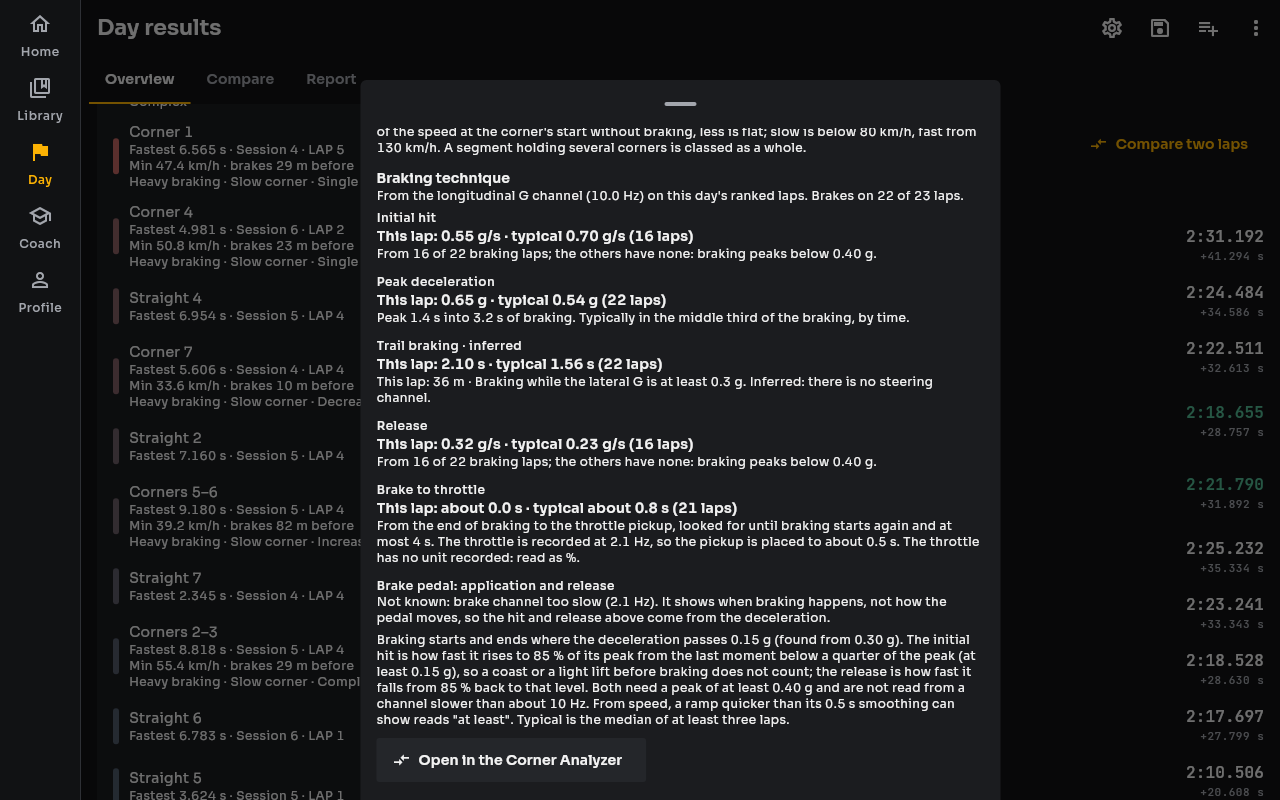
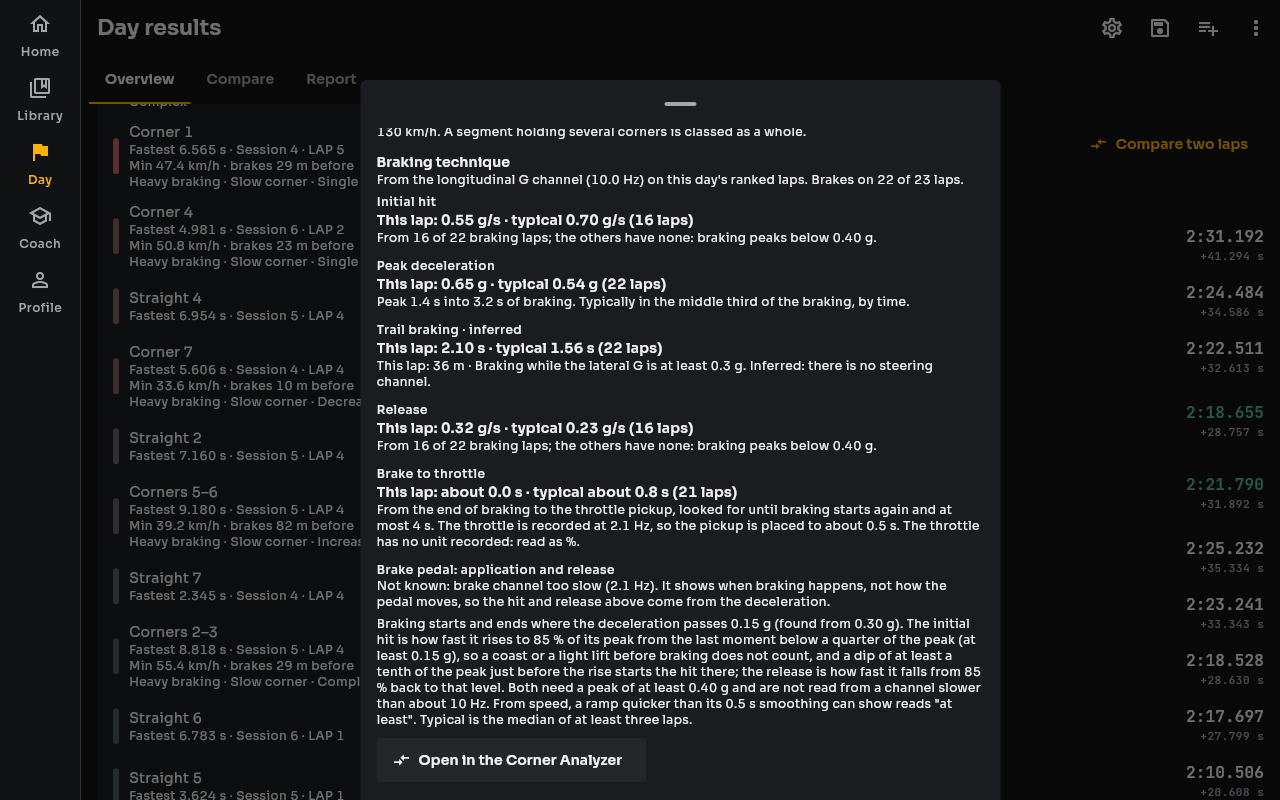
FET-219: braking technique round 3 (assumed speed unit for metres, per-figure rates)
- Metres come from the speed whatever the deceleration source: the lap records
  speedUnitAssumed and the assumed unit (km/h or mph) whenever the file declares
  no speed unit, and the trail line says so (EN, PL). Guide sentence added.
- The partial-typical line names each figure's own channel rate (lateral for
  trail, throttle, brake) instead of the G rate; trail metres and the pedal
  figures get the line too.
- The note under the section mentions the dip rule for the hit.

Claude-Session: https://claude.ai/code/session_014pCmgHGRka3SUZbzm8LTeW

Changed region(s): [[0.2812, 0.1562, 0.7812, 0.9062]]

diff --git a/lib/day/corner_details.dart b/lib/day/corner_details.dart
@@ -852,7 +852,7 @@ class BrakingTechniqueSection extends StatelessWidget {
 
     // A typical resting on under three quarters of the braking laps says
     // how many, and why the others have none.
-    String subset(BrakingTechniqueTypical typical) {
+    String subset(BrakingTechniqueTypical typical, double? rate) {
       if (!typical.partial) return '';
       final dropped = typical.droppedReason;
       return switch (dropped) {
@@ -861,7 +861,7 @@ class BrakingTechniqueSection extends StatelessWidget {
         _ => l10n.brakingTechniqueSubsetOther(
           typical.laps,
           typical.brakingLaps,
-          reason(dropped, rate: technique.rateHz),
+          reason(dropped, rate: rate),
         ),
       };
     }
@@ -977,7 +977,7 @@ class BrakingTechniqueSection extends StatelessWidget {
             gPerSecond,
             atLeast: (lap) => lap.hitAtLeast,
           ),
-          subset(technique.hit),
+          subset(technique.hit, technique.rateHz),
         ),
         item(
           'brakingTechniquePeak',
@@ -988,7 +988,7 @@ class BrakingTechniqueSection extends StatelessWidget {
             technique.peak,
             g,
           ),
-          notes([peakNotes, subset(technique.peak)]),
+          notes([peakNotes, subset(technique.peak, technique.rateHz)]),
         ),
         item(
           'brakingTechniqueTrail',
@@ -1008,7 +1008,14 @@ class BrakingTechniqueSection extends StatelessWidget {
               if (technique.lateralUnitAssumed)
                 l10n.brakingTechniqueLateralAssumed,
             ].join(' · '),
-            subset(technique.trailSeconds),
+            if (technique.speedUnitAssumed)
+              l10n.brakingTechniqueSpeedAssumed(technique.speedAssumedUnit),
+            subset(technique.trailSeconds, technique.lateralRateHz),
+            if (subset(technique.trailMeters, technique.lateralRateHz)
+                case final line
+                when line !=
+                    subset(technique.trailSeconds, technique.lateralRateHz))
+              line,
           ]),
         ),
         item(
@@ -1021,7 +1028,7 @@ class BrakingTechniqueSection extends StatelessWidget {
             gPerSecond,
             atLeast: (lap) => lap.releaseAtLeast,
           ),
-          subset(technique.release),
+          subset(technique.release, technique.rateHz),
         ),
         if (hasThrottle)
           item(
@@ -1048,7 +1055,7 @@ class BrakingTechniqueSection extends StatelessWidget {
                 l10n.brakingTechniqueThrottleAssumed,
               if (technique.throttleScaleInferred)
                 l10n.brakingTechniqueThrottleScaleInferred,
-              subset(technique.brakeToThrottle),
+              subset(technique.brakeToThrottle, throttleRate),
             ].join(' '),
           ),
         if (hasBrake)
@@ -1094,7 +1101,9 @@ class BrakingTechniqueSection extends StatelessWidget {
                       l10n.brakingTechniqueBrakeAssumed,
                     if (technique.brakeScaleInferred)
                       l10n.brakingTechniqueBrakeScaleInferred,
-                  ].join(' '),
+                    subset(technique.pedalApplication, brakeRate),
+                    subset(technique.pedalRelease, brakeRate),
+                  ].where((note) => note.isNotEmpty).toSet().join(' '),
                 ),
         Text(
           l10n.brakingTechniqueNote,

diff --git a/docs/user-guide/pages/corners.html b/docs/user-guide/pages/corners.html
@@ -88,7 +88,7 @@
 <ul>
   <li>The deceleration comes from the longitudinal G channel when the recording has one with data, otherwise from the change of the speed, smoothed over a 0.5 s window (the line under the title says which, and the channel's rate). RaceChrono's <em>longacc-calc</em> and <em>latacc-calc</em> are calculated by RaceChrono, most likely from the GPS speed and heading, and are smoothed, so the hit and release can read slower than the car really braked. Laps measured from G and from speed, or in different units, are never mixed.</li>
   <li>Figures from speed and from a G channel are not comparable. From speed, a hit or release quicker than the 0.5 s smoothing can show reads <em>at least</em>, for example <em>at least 0.74 g/s</em>: the real one may be quicker.</li>
-  <li>Units are read as the recording declares them, also from a VBO's header. A channel without a unit is read as g (G channels), km/h (speed) or % (pedals), and the section says so, for example <em>no unit recorded: read as km/h</em> (or as mph when the speed setting for recordings without a unit says so; a unit the file declares is never overridden by that setting); a pedal recorded from 0 to 1 is read as 0 to 100 % and says so too.</li>
+  <li>Units are read as the recording declares them, also from a VBO's header. A channel without a unit is read as g (G channels), km/h (speed) or % (pedals), and the section says so, for example <em>no unit recorded: read as km/h</em> (or as mph when the speed setting for recordings without a unit says so; a unit the file declares is never overridden by that setting); a pedal recorded from 0 to 1 is read as 0 to 100 % and says so too. The distances (metres of braking and of trail braking) come from the speed whichever channel gives the deceleration, so a speed without a unit says <em>distances read in km/h</em> (or mph) under the trail braking line.</li>
   <li>The rate of each channel is worked out from its values, not from the file's row rate: a channel RaceChrono draws with straight lines between slower updates shows its real rate (OBD channels about 2 Hz). Known limits: a rate from about 7 Hz up to 10 Hz can read as 10 Hz, and a good 10 Hz channel may now and then be refused as too slow. The rate is decided from the first 1,500 moving samples of the file (about 2.5 minutes at 10 Hz), so a channel that changes how it is recorded later in the file is not noticed.</li>
   <li>Braking is found where the deceleration passes 0.30 g and runs while it is at least 0.15 g, from up to 200 m before the corner to its end. Shorter than 0.3 s is a bump, not braking. The hit and release need a peak of at least 0.40 g, at least three samples, and a channel of about 10 Hz or faster.</li>
   <li>A typical that rests on fewer than three quarters of the braking laps says so under the line, for example <em>From 5 of 16 braking laps; the others braked again before the throttle or coasted</em>, or names the other reason. The laps that kept a value may not be the corner's usual ones: for brake to throttle they are the laps without a second braking and without a long coast, so the typical reads low. The day's line leaves out a corner whose figure rests on fewer than half of its braking laps, and says how many.</li>

diff --git a/test/day/braking_technique_section_test.dart b/test/day/braking_technique_section_test.dart
@@ -224,7 +224,9 @@ void main() {
         rowText(tester, 'brakingTechniqueTrail'),
         'Trail braking · inferred | This lap: not known, no lateral G channel '
         '· typical: not known, no lateral G channel | Braking while the '
-        'lateral G is at least 0.3 g. Inferred: there is no steering channel.',
+        'lateral G is at least 0.3 g. Inferred: there is no steering channel. '
+        // The synthetic VBO's speed declares no unit either.
+        'The speed has no unit recorded: distances read in km/h.',
       );
       expect(
         rowText(tester, 'brakingTechniqueRelease'),
@@ -385,6 +387,55 @@ void main() {
         isNot(contains('5 of 16')),
       );
     }
+    expect(tester.takeException(), isNull);
+  });
+
+  testWidgets('a dropped reason is told at its own channel\'s rate, and an '
+      'undeclared speed is noted under the trail line', (tester) async {
+    BrakingTechniqueLap slowLateral() => _lap(0.7)
+      ..trailSeconds = null
+      ..trailMeters = null
+      ..trailReason = brakingTechniqueLateralTooSlow
+      ..lateralRateHz = 4.0
+      ..speedUnitAssumed = true
+      ..speedAssumedUnit = 'mph';
+    final technique = summarizeBrakingTechnique([
+      for (var i = 0; i < 5; ++i) (i == 1 ? _b : i, _lap(0.7)),
+      for (var i = 5; i < 16; ++i) (i, slowLateral()),
+    ]);
+    expect(technique.trailSeconds.partial, isTrue);
+    await show(
+      tester,
+      const Locale('en'),
+      Scaffold(
+        body: SingleChildScrollView(
+          child: BrakingTechniqueSection(technique: technique, lap: _b),
+        ),
+      ),
+    );
+    final trail = rowText(tester, 'brakingTechniqueTrail');
+    expect(trail, contains('From 5 of 16 braking laps'));
+    expect(trail, contains('(4.0 Hz)'));
+    expect(trail, isNot(contains('10.0 Hz')));
+    expect(
+      trail,
+      contains('The speed has no unit recorded: distances read in mph.'),
+    );
+    await show(
+      tester,
+      const Locale('pl'),
+      Scaffold(
+        body: SingleChildScrollView(
+          child: BrakingTechniqueSection(technique: technique, lap: _b),
+        ),
+      ),
+    );
+    expect(
+      rowText(tester, 'brakingTechniqueTrail'),
+      contains(
+        'Prędkość nie ma zapisanej jednostki: odległości odczytane w mph.',
+      ),
+    );
     expect(tester.takeException(), isNull);
   });
 

diff --git a/lib/l10n/app_localizations.dart b/lib/l10n/app_localizations.dart
@@ -11372,7 +11372,7 @@ abstract class AppLocalizations {
   /// Braking technique: how the figures are read and the thresholds.
   ///
   /// In en, this message translates to:
-  /// **'Braking starts and ends where the deceleration passes 0.15 g (found from 0.30 g). The initial hit is how fast it rises to 85 % of its peak from the last moment below a quarter of the peak (at least 0.15 g), so a coast or a light lift before braking does not count; the release is how fast it falls from 85 % back to that level. Both need a peak of at least 0.40 g and are not read from a channel slower than about 10 Hz. From speed, a ramp quicker than its 0.5 s smoothing can show reads \"at least\". Typical is the median of at least three laps.'**
+  /// **'Braking starts and ends where the deceleration passes 0.15 g (found from 0.30 g). The initial hit is how fast it rises to 85 % of its peak from the last moment below a quarter of the peak (at least 0.15 g), so a coast or a light lift before braking does not count, and a dip of at least a tenth of the peak just before the rise starts the hit there; the release is how fast it falls from 85 % back to that level. Both need a peak of at least 0.40 g and are not read from a channel slower than about 10 Hz. From speed, a ramp quicker than its 0.5 s smoothing can show reads \"at least\". Typical is the median of at least three laps.'**
   String get brakingTechniqueNote;
 
   /// Why a braking figure is not known: the channel it would come from updates slower than about 10 Hz.
@@ -11590,6 +11590,12 @@ abstract class AppLocalizations {
   /// In en, this message translates to:
   /// **'{count, plural, =1{1 corner measured another way (G channel or speed, or another unit) is left out.} other{{count} corners measured another way (G channel or speed, or another unit) are left out.}}'**
   String brakingTechniqueDayOtherSource(int count);
+
+  /// Braking technique: distances come from a speed that declares no unit.
+  ///
+  /// In en, this message translates to:
+  /// **'The speed has no unit recorded: distances read in {unit}.'**
+  String brakingTechniqueSpeedAssumed(String unit);
 
   /// Braking technique: a typical resting on a few of the braking laps, the others having braked again or coasted.
   ///

diff --git a/packages/telemetry_core/test/analysis/braking_technique_test.dart b/packages/telemetry_core/test/analysis/braking_technique_test.dart
@@ -534,6 +534,49 @@ void main() {
       expect(none.peakG, closeTo(reference.peakG!, 0.01));
     });
 
+    test('a G channel with an undeclared speed says the metres are assumed', () {
+      TelemetrySession withSpeedUnit(String unit, {Map<String, String> metadata = const {}}) {
+        final base = _session();
+        final speed = base.channels['velocity']!;
+        return TelemetrySession(
+          duration: base.duration,
+          startTime: 0,
+          metadata: metadata,
+          channels: {
+            ...base.channels,
+            'velocity': TelemetryChannel(
+              name: 'velocity',
+              unit: unit,
+              timestamps: speed.timestamps,
+              values: speed.values,
+            ),
+          },
+          aliases: base.aliases,
+          warnings: const [],
+          timingGates: const [],
+          sampleCount: base.sampleCount,
+        );
+      }
+
+      final plain = _measure(withSpeedUnit(''));
+      expect(plain.source, brakingTechniqueFromG);
+      expect(plain.unitAssumed, isFalse);
+      expect(plain.zoneMeters, isNotNull);
+      expect(plain.speedUnitAssumed, isTrue);
+      expect(plain.speedAssumedUnit, 'km/h');
+      final mph = _measure(withEffectiveSpeedUnits(withSpeedUnit(''), assumed: 'mph'));
+      expect(mph.speedUnitAssumed, isTrue);
+      expect(mph.speedAssumedUnit, 'mph');
+      final declared = _measure(withSpeedUnit('km/h'));
+      expect(declared.speedUnitAssumed, isFalse);
+      final header = _measure(withSpeedUnit('', metadata: const {'header.0': 'velocity kmh'}));
+      expect(header.speedUnitAssumed, isFalse);
+      final day = summarizeBrakingTechnique([('a', plain), ('b', plain), ('c', plain)]);
+      expect(day.speedUnitAssumed, isTrue);
+      expect(day.speedAssumedUnit, 'km/h');
+      expect(day.unitAssumed, isFalse);
+    });
+
     test('a declared unit is never overridden by the setting', () {
       final declared = speedIn('mph', metadata: const {'header.0': 'velocity mph'});
       final lap = _measure(withEffectiveSpeedUnits(declared, assumed: 'km/h'));

diff --git a/lib/l10n/app_localizations_pl.dart b/lib/l10n/app_localizations_pl.dart
@@ -8040,7 +8040,7 @@ class AppLocalizationsPl extends AppLocalizations {
 
   @override
   String get brakingTechniqueNote =>
-      'Hamowanie zaczyna się i kończy tam, gdzie opóźnienie przekracza 0.15 g (wykrywane od 0.30 g). Narastanie to tempo wzrostu do 85 % szczytu od ostatniej chwili poniżej jednej czwartej szczytu (co najmniej 0.15 g), więc toczenie się lub lekkie odpuszczenie gazu przed hamowaniem się nie liczy; odpuszczanie to tempo spadku od 85 % z powrotem do tego poziomu. Oba wymagają szczytu co najmniej 0.40 g i nie są odczytywane z kanału wolniejszego niż około 10 Hz. Z prędkości narastanie szybsze, niż pokazuje wygładzanie w oknie 0.5 s, jest oznaczone jako „co najmniej”. Wartość typowa to mediana z co najmniej trzech okrążeń.';
+      'Hamowanie zaczyna się i kończy tam, gdzie opóźnienie przekracza 0.15 g (wykrywane od 0.30 g). Narastanie to tempo wzrostu do 85 % szczytu od ostatniej chwili poniżej jednej czwartej szczytu (co najmniej 0.15 g), więc toczenie się lub lekkie odpuszczenie gazu przed hamowaniem się nie liczy, a spadek o co najmniej jedną dziesiątą szczytu tuż przed wzrostem zaczyna narastanie właśnie tam; odpuszczanie to tempo spadku od 85 % z powrotem do tego poziomu. Oba wymagają szczytu co najmniej 0.40 g i nie są odczytywane z kanału wolniejszego niż około 10 Hz. Z prędkości narastanie szybsze, niż pokazuje wygładzanie w oknie 0.5 s, jest oznaczone jako „co najmniej”. Wartość typowa to mediana z co najmniej trzech okrążeń.';
 
   @override
   String brakingTechniqueReasonTooSlow(String rate) {
@@ -8215,6 +8215,11 @@ class AppLocalizationsPl extends AppLocalizations {
       one: 'Pominięto 1 zakręt zmierzony inaczej (z kanału G lub z prędkości albo w innej jednostce).',
     );
     return '$_temp0';
+  }
+
+  @override
+  String brakingTechniqueSpeedAssumed(String unit) {
+    return 'Prędkość nie ma zapisanej jednostki: odległości odczytane w $unit.';
   }
 
   @override

diff --git a/packages/telemetry_core/lib/src/analysis/braking_technique.dart b/packages/telemetry_core/lib/src/analysis/braking_technique.dart
@@ -568,6 +568,11 @@ final class BrakingTechniqueLap {
   /// [unitAssumed] and the deceleration comes from speed; else empty.
   String assumedUnit = '';
 
+  /// The speed (which gives the metres, and the deceleration without a G
+  /// channel) declares no unit: it was read in [speedAssumedUnit].
+  bool speedUnitAssumed = false;
+  String speedAssumedUnit = '';
+
   /// The deceleration channel's update rate.
   double? rateHz;
 
@@ -919,6 +924,13 @@ BrakingTechniqueLap measureBrakingTechnique(
   final speedFactor = speed == null || speed.timestamps.length != speed.values.length
       ? null
       : metresPerSecondPerSpeedUnit(speedUnit);
+  // Metres come from the speed whatever the deceleration comes from: an
+  // undeclared speed unit is assumed there too, and says so.
+  if (speedFactor != null && speedDeclared.isEmpty) {
+    result
+      ..speedUnitAssumed = true
+      ..speedAssumedUnit = speedUnit.isEmpty ? 'km/h' : speedUnit;
+  }
 
   // The deceleration: a G channel with data, else the speed.
   final gName = session.aliases['longitudinalAcceleration'] ?? '';
@@ -1398,6 +1410,16 @@ final class BrakingTechnique {
   double? get lateralRateHz => _slowest([for (final (_, lap) in laps) lap.lateralRateHz]);
 
   bool _any(bool Function(BrakingTechniqueLap) test) => laps.any((entry) => test(entry.$2));
+
+  /// Some lap's metres come from a speed with no declared unit, read in
+  /// [speedAssumedUnit] ("km/h" or "mph").
+  bool get speedUnitAssumed => _any((lap) => lap.speedUnitAssumed);
+  String get speedAssumedUnit {
+    for (final (_, lap) in laps) {
+      if (lap.speedUnitAssumed) return lap.speedAssumedUnit;
+    }
+    return '';
+  }
 
   /// The unit an undeclared speed was read in ("km/h" or "mph") when
   /// [source] is speed and [unitAssumed]; else empty.

diff --git a/lib/l10n/app_localizations_en.dart b/lib/l10n/app_localizations_en.dart
@@ -7860,7 +7860,7 @@ class AppLocalizationsEn extends AppLocalizations {
 
   @override
   String get brakingTechniqueNote =>
-      'Braking starts and ends where the deceleration passes 0.15 g (found from 0.30 g). The initial hit is how fast it rises to 85 % of its peak from the last moment below a quarter of the peak (at least 0.15 g), so a coast or a light lift before braking does not count; the release is how fast it falls from 85 % back to that level. Both need a peak of at least 0.40 g and are not read from a channel slower than about 10 Hz. From speed, a ramp quicker than its 0.5 s smoothing can show reads \"at least\". Typical is the median of at least three laps.';
+      'Braking starts and ends where the deceleration passes 0.15 g (found from 0.30 g). The initial hit is how fast it rises to 85 % of its peak from the last moment below a quarter of the peak (at least 0.15 g), so a coast or a light lift before braking does not count, and a dip of at least a tenth of the peak just before the rise starts the hit there; the release is how fast it falls from 85 % back to that level. Both need a peak of at least 0.40 g and are not read from a channel slower than about 10 Hz. From speed, a ramp quicker than its 0.5 s smoothing can show reads \"at least\". Typical is the median of at least three laps.';
 
   @override
   String brakingTechniqueReasonTooSlow(String rate) {
@@ -8028,6 +8028,11 @@ class AppLocalizationsEn extends AppLocalizations {
       one: '1 corner measured another way (G channel or speed, or another unit) is left out.',
     );
     return '$_temp0';
+  }
+
+  @override
+  String brakingTechniqueSpeedAssumed(String unit) {
+    return 'The speed has no unit recorded: distances read in $unit.';
   }
 
   @override
